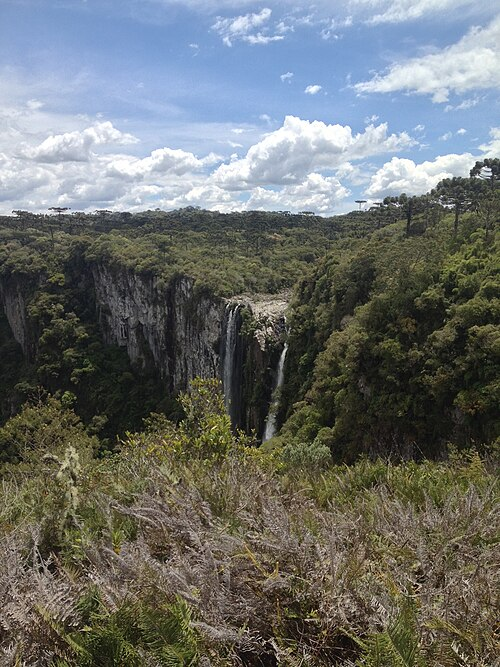
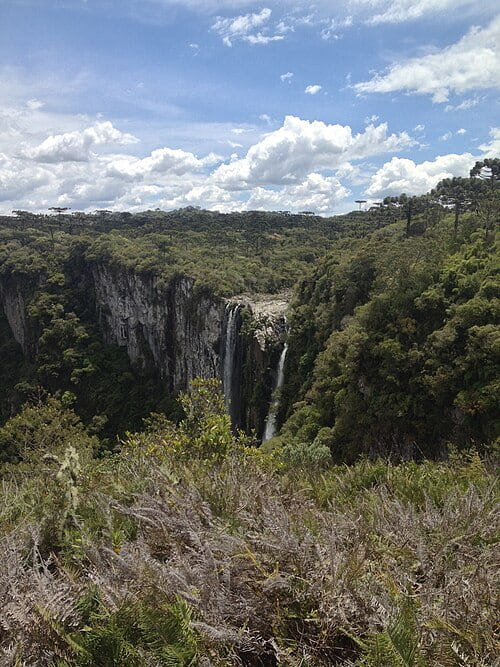
morre

diff --git a/estilos/estilos.css b/estilos/estilos.css
@@ -1,4 +1,3 @@
-
 * {
     margin: 0;
     padding: 0;
@@ -8,66 +7,82 @@
 body {
     font-family: Arial, Helvetica, sans-serif;
     line-height: 1.5;
-    color: #222;
-    background: #ffffff;
+    color: #120a0a;
+    background: #f5eaea;
+    margin: 0;
 }
 
 main {
-  max-width: 840px;
+    max-width: 840px;
+    margin: 0 auto;
+    padding: 20px;
 }
 
 main img {
-  width: 150px;
-  height: auto;
-  border: 1px solid rgb(13, 157, 92);
-  padding: 2px;
-  box-shadow: 0 0 30px rgb(11, 48, 10);
+    width: 150px;
+    height: auto;
+    border: 1px solid rgb(13, 157, 92);
+    padding: 2px;
+    box-shadow: 0 0 30px rgb(11, 48, 10);
 }
 
 nav {
-  background-color: #1f4d1f;
-  padding: 10px;
-  text-align: center;
+    background-color: rgba(14, 100, 14, 0.507);
+    padding: 10px;
 }
 
 nav a {
-  color: rgb(79, 22, 177);
-  display: block;
-  padding: 20px;
+    color: rgb(79, 22, 177);
+    display: block;
+    padding: 20px;
+    text-decoration: none;
 }
 
 h1 {
-  color: rgb(2, 2, 55);
+    color: rgb(2, 2, 55);
+    margin-bottom: 15px;
 }
 
 img {
-  width: 150px;
-  height: auto;
-  border: 1px solid rgb(0, 0, 0);
-  padding: 2px;
-  box-shadow: 0 0 30px gray;
+    width: 150px;
+    height: auto;
+    border: 1px solid rgb(0, 0, 0);
+    padding: 2px;
+    box-shadow: 0 0 30px gray;
 }
 
 p {
-  padding: 0;
+    padding: 0;
 }
 
 aside {
     width: 20em;
     margin: 1em auto;
-    border: 1px solid #999;
+    border: 1px solid rgba(0, 0, 0, 0.2);
     padding: 1em;
-    background-color: #f4f4f4;
-    color: #222;
+    background-color: #eee;
+    color: #333;
     text-align: center;
 }
+
 aside img {
     width: 200px;
     height: auto;
 }
+
 footer {
-  margin-top: 15px;
-  border-top: 1px solid #999;
-  text-align: center;
-  padding: 10px;
+    margin-top: 15px;
+    border-top: 1px solid #000;
+    text-align: center;
+    padding: 10px;
 }
+
+
+
+
+
+
+
+
+
+